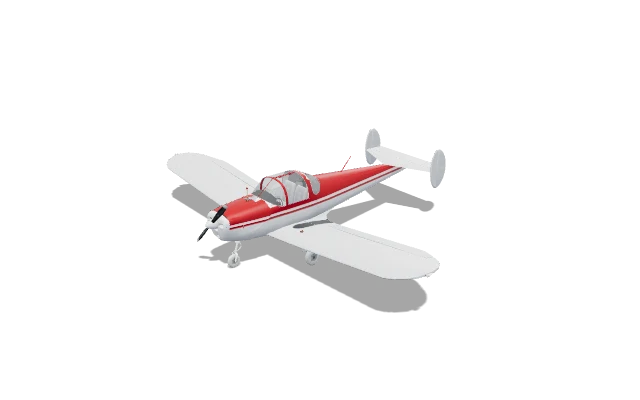
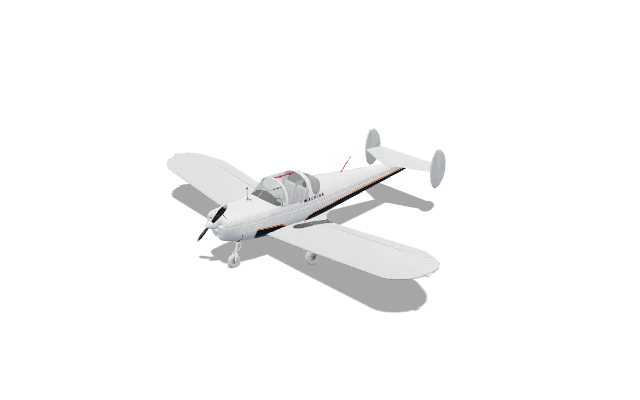
Machina livery by default on the A320neo, 787-8 and Ercoupe; coloured paint and plain parts (wings, tailplanes, cowlings) repainted too

Changed region(s): [[0.3125, 0.39, 0.625, 0.6]]

diff --git a/src/machina-paint.js b/src/machina-paint.js
@@ -82,22 +82,28 @@ function measure(meshes, toRoot) {
 }
 
 const VERT_HEAD = 'uniform mat4 uToRoot;\nvarying vec3 vLiv;\nvarying vec3 vLivN;\n';
-const FRAG_HEAD = `uniform float uBot[${N}];\nuniform float uH[${N}];\nuniform vec2 uX;\nuniform float uH0;\nuniform vec3 uBase, uBelly, uStripe, uTail;\nuniform float uTailAll;\nuniform vec2 uLight;\nuniform vec4 uTitleBox;\nuniform sampler2D uTitle;\nvarying vec3 vLiv;\nvarying vec3 vLivN;\n`;
+const FRAG_HEAD = `uniform float uBot[${N}];\nuniform float uH[${N}];\nuniform vec2 uX;\nuniform float uH0;\nuniform vec3 uBase, uBelly, uStripe, uTail;\nuniform float uTailAll;\nuniform vec2 uLight;\nuniform float uShade, uSat;\nuniform vec4 uTitleBox;\nuniform sampler2D uTitle;\nvarying vec3 vLiv;\nvarying vec3 vLivN;\n`;
 const FRAG_BODY = `
   {
     float fx = clamp((vLiv.x - uX.x) / (uX.y - uX.x), 0.0, 1.0) * ${N - 1}.0;
     int i0 = int(floor(fx)); int i1 = min(i0 + 1, ${N - 1}); float ft = fract(fx);
     float bot = mix(uBot[i0], uBot[i1], ft), hh = mix(uH[i0], uH[i1], ft);
     float lum = dot(diffuseColor.rgb, vec3(0.299, 0.587, 0.114));
-    float paint = smoothstep(uLight.x, uLight.y, lum);
+    // Light paint, plus coloured paint (red, blue, yellow); dark unsaturated detail such as windows and panel lines stays.
+    float mx = max(diffuseColor.r, max(diffuseColor.g, diffuseColor.b));
+    float sat = mx > 0.02 ? (mx - min(diffuseColor.r, min(diffuseColor.g, diffuseColor.b))) / mx : 0.0;
+    float colored = uSat > 0.0 ? smoothstep(uSat, uSat + 0.2, sat) * smoothstep(0.01, 0.04, mx) : 0.0;
+    float paint = max(smoothstep(uLight.x, uLight.y, lum), colored);
     float cheat = bot + 0.36 * hh, band = 0.045 * uH0;
     vec3 col = vLiv.y < cheat ? uBelly : (vLiv.y < cheat + band ? uStripe : uBase);
     bool fin = vLiv.y > bot + hh + 0.12 * uH0 && vLiv.x > uX.x + 0.62 * (uX.y - uX.x);
-    if (uTailAll > 0.5 || fin) col = uTail;
+    if (uTailAll > 1.5) col = uBase; // plain parts: wings, tailplanes, cowlings
+    else if (uTailAll > 0.5 || fin) col = uTail;
     vec2 t = vec2((vLiv.x - uTitleBox.x) / uTitleBox.z, (vLiv.y - uTitleBox.y) / uTitleBox.w); // canvas textures are flipped in v already
     if (vLiv.z < 0.0) t.x = 1.0 - t.x; // right side (z < 0): mirror so the title reads normally from that side too
     if (abs(vLivN.z) > 0.3 && t.x > 0.0 && t.x < 1.0 && t.y > 0.0 && t.y < 1.0 && uTailAll < 0.5) { vec4 tc = texture2D(uTitle, t); col = mix(col, tc.rgb, tc.a); }
-    diffuseColor.rgb = mix(diffuseColor.rgb, col * clamp(lum / (uLight.y + 0.18), 0.55, 1.0), paint);
+    float shade = mix(clamp(lum / uShade, 0.55, 1.0), 0.92, colored);
+    diffuseColor.rgb = mix(diffuseColor.rgb, col * shade, paint);
   }
 `;
 
@@ -114,9 +120,12 @@ function patch(mat, uniforms) {
 
 /**
  * Paint the Machina livery onto a loaded detailed model (before finalize).
- * cfg (model.asset.machina): { parts: body part ids, tail: part ids painted all tail color, light: [lo, hi]
+ * cfg (model.asset.machina): { parts: body part ids, tail: part ids painted all tail color, plain: part ids
+ * painted all base white (wings, tailplanes, cowlings in a colour of their own), light: [lo, hi]
  * linear luminance ramp of the paint that gets replaced, [0.5, 0.72] by default for white airliner
- * paint, lower for bare metal }
+ * paint, lower for bare metal or dark paint; shade: the luminance kept at full livery brightness,
+ * light[1] + 0.18 by default; sat: HSV saturation from which coloured paint is repainted too,
+ * 0.3 by default, 0 to leave it }
  * @param {{ stripe?: string }} [opts] stripe overrides the cheatline color
  */
 export function applyMachinaPaint(root, cfg, opts = {}) {
@@ -135,7 +144,7 @@ export function applyMachinaPaint(root, cfg, opts = {}) {
       if (q.isMesh) for (const mat of [q.material].flat()) { mat.polygonOffset = true; mat.polygonOffsetFactor = 2; mat.polygonOffsetUnits = 2; }
     });
   });
-  const body = meshesOf(cfg.parts ?? ['fuselage']), tail = meshesOf(cfg.tail ?? []);
+  const body = meshesOf(cfg.parts ?? ['fuselage']), tail = meshesOf(cfg.tail ?? []), plain = meshesOf(cfg.plain ?? []);
   if (!body.length) return;
   const p = measure(body, toRoot);
   const L = p.x1 - p.x0;
@@ -145,9 +154,9 @@ export function applyMachinaPaint(root, cfg, opts = {}) {
   const common = {
     uBot: { value: p.bot }, uH: { value: p.h }, uX: { value: new THREE.Vector2(p.x0, p.x1) }, uH0: { value: p.h0 },
     uBase: { value: new THREE.Color(WHITE) }, uBelly: { value: new THREE.Color(NAVY) }, uStripe: { value: new THREE.Color(opts.stripe ?? ORANGE) }, uTail: { value: new THREE.Color(NAVY) },
-    uTitleBox: { value: new THREE.Vector4(tx, ty, tw, th) }, uLight: { value: new THREE.Vector2(...(cfg.light ?? [0.5, 0.72])) }, uTitle: { value: title() },
+    uTitleBox: { value: new THREE.Vector4(tx, ty, tw, th) }, uLight: { value: new THREE.Vector2(...(cfg.light ?? [0.5, 0.72])) }, uShade: { value: cfg.shade ?? (cfg.light?.[1] ?? 0.72) + 0.18 }, uSat: { value: cfg.sat ?? 0.3 }, uTitle: { value: title() },
   };
-  for (const [list, tailAll] of [[body, 0], [tail, 1]]) for (const m of list) {
+  for (const [list, tailAll] of [[body, 0], [tail, 1], [plain, 2]]) for (const m of list) {
     const u = { ...common, uToRoot: { value: toRoot.get(m) }, uTailAll: { value: tailAll } };
     for (const mat of [m.material].flat()) patch(mat, u);
   }

diff --git a/src/assets.js b/src/assets.js
@@ -331,7 +331,8 @@ export async function loadAssetModel(model, opts = {}) {
       textures.set(url, t);
       t.flipY = false;
       const isNormal = /normal/i.test(tex);
-      const paint = opts.accent && a.recolor?.textures?.find(r => url.endsWith(r.file ?? r));
+      // With the Machina livery on, the accent colours its stripe instead of repainting the skin.
+      const paint = opts.accent && !(a.machina && !opts.original) && a.recolor?.textures?.find(r => url.endsWith(r.file ?? r));
       const cfg = paint && (typeof paint === 'string' ? a.recolor : { ...a.recolor, ...paint });
       pending.push(loadBitmap(url).then(bmp => (paint ? recolor(bmp, opts.accent, cfg) : bmp)).then(bmp => { t.image = bmp; t.needsUpdate = true; }).catch(err => console.warn('texture', url, err)));
       t.colorSpace = isNormal ? THREE.NoColorSpace : THREE.SRGBColorSpace;
